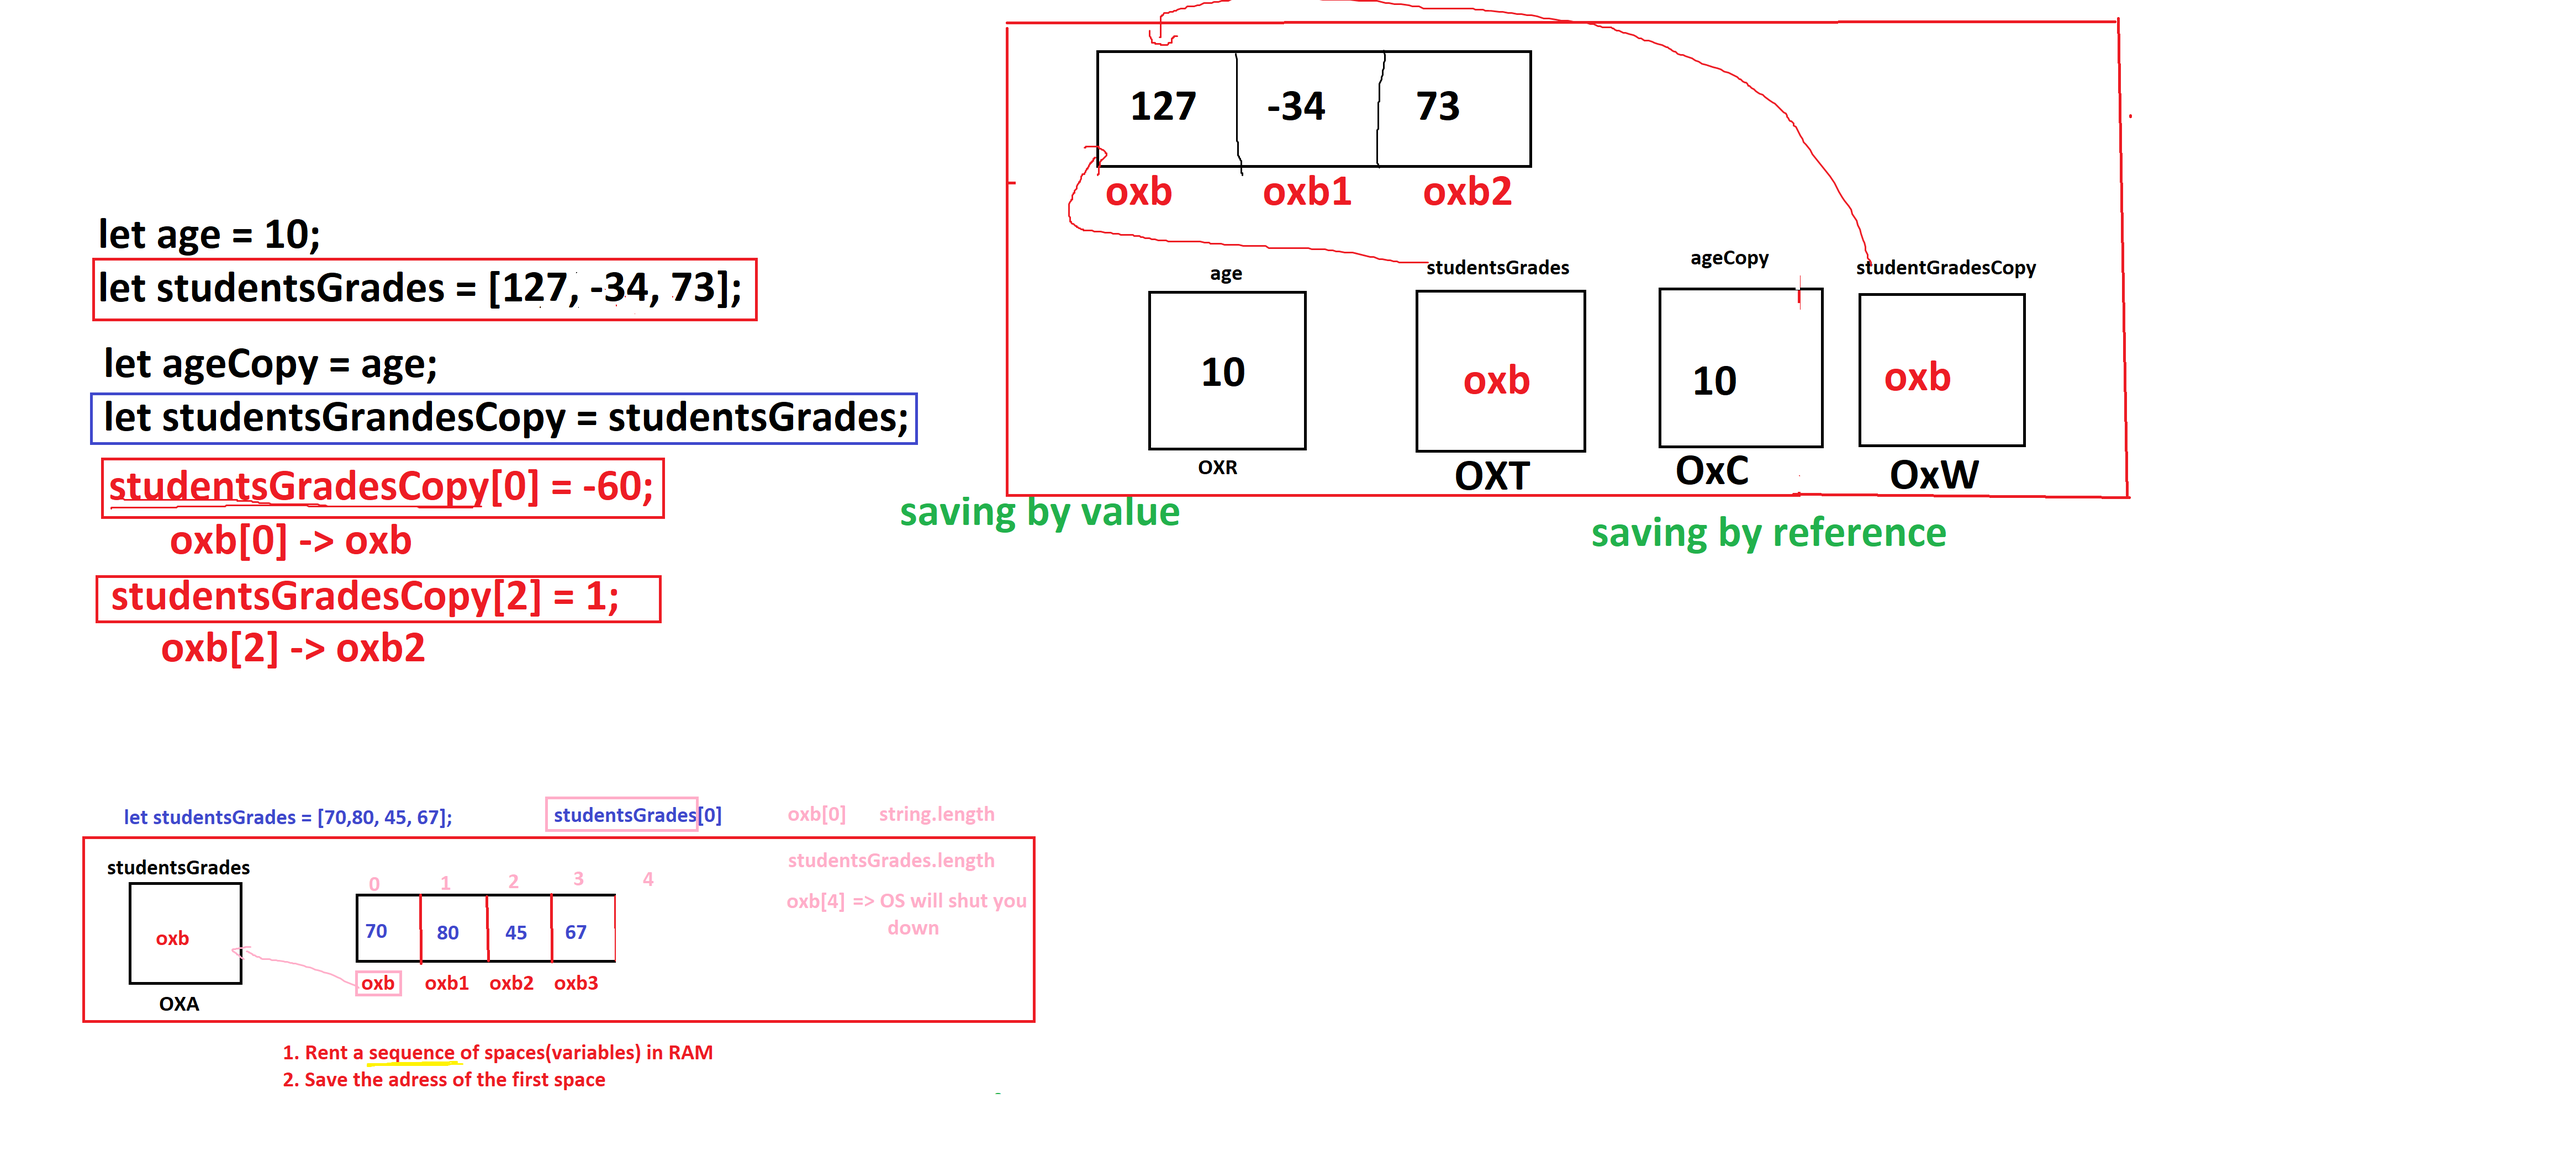
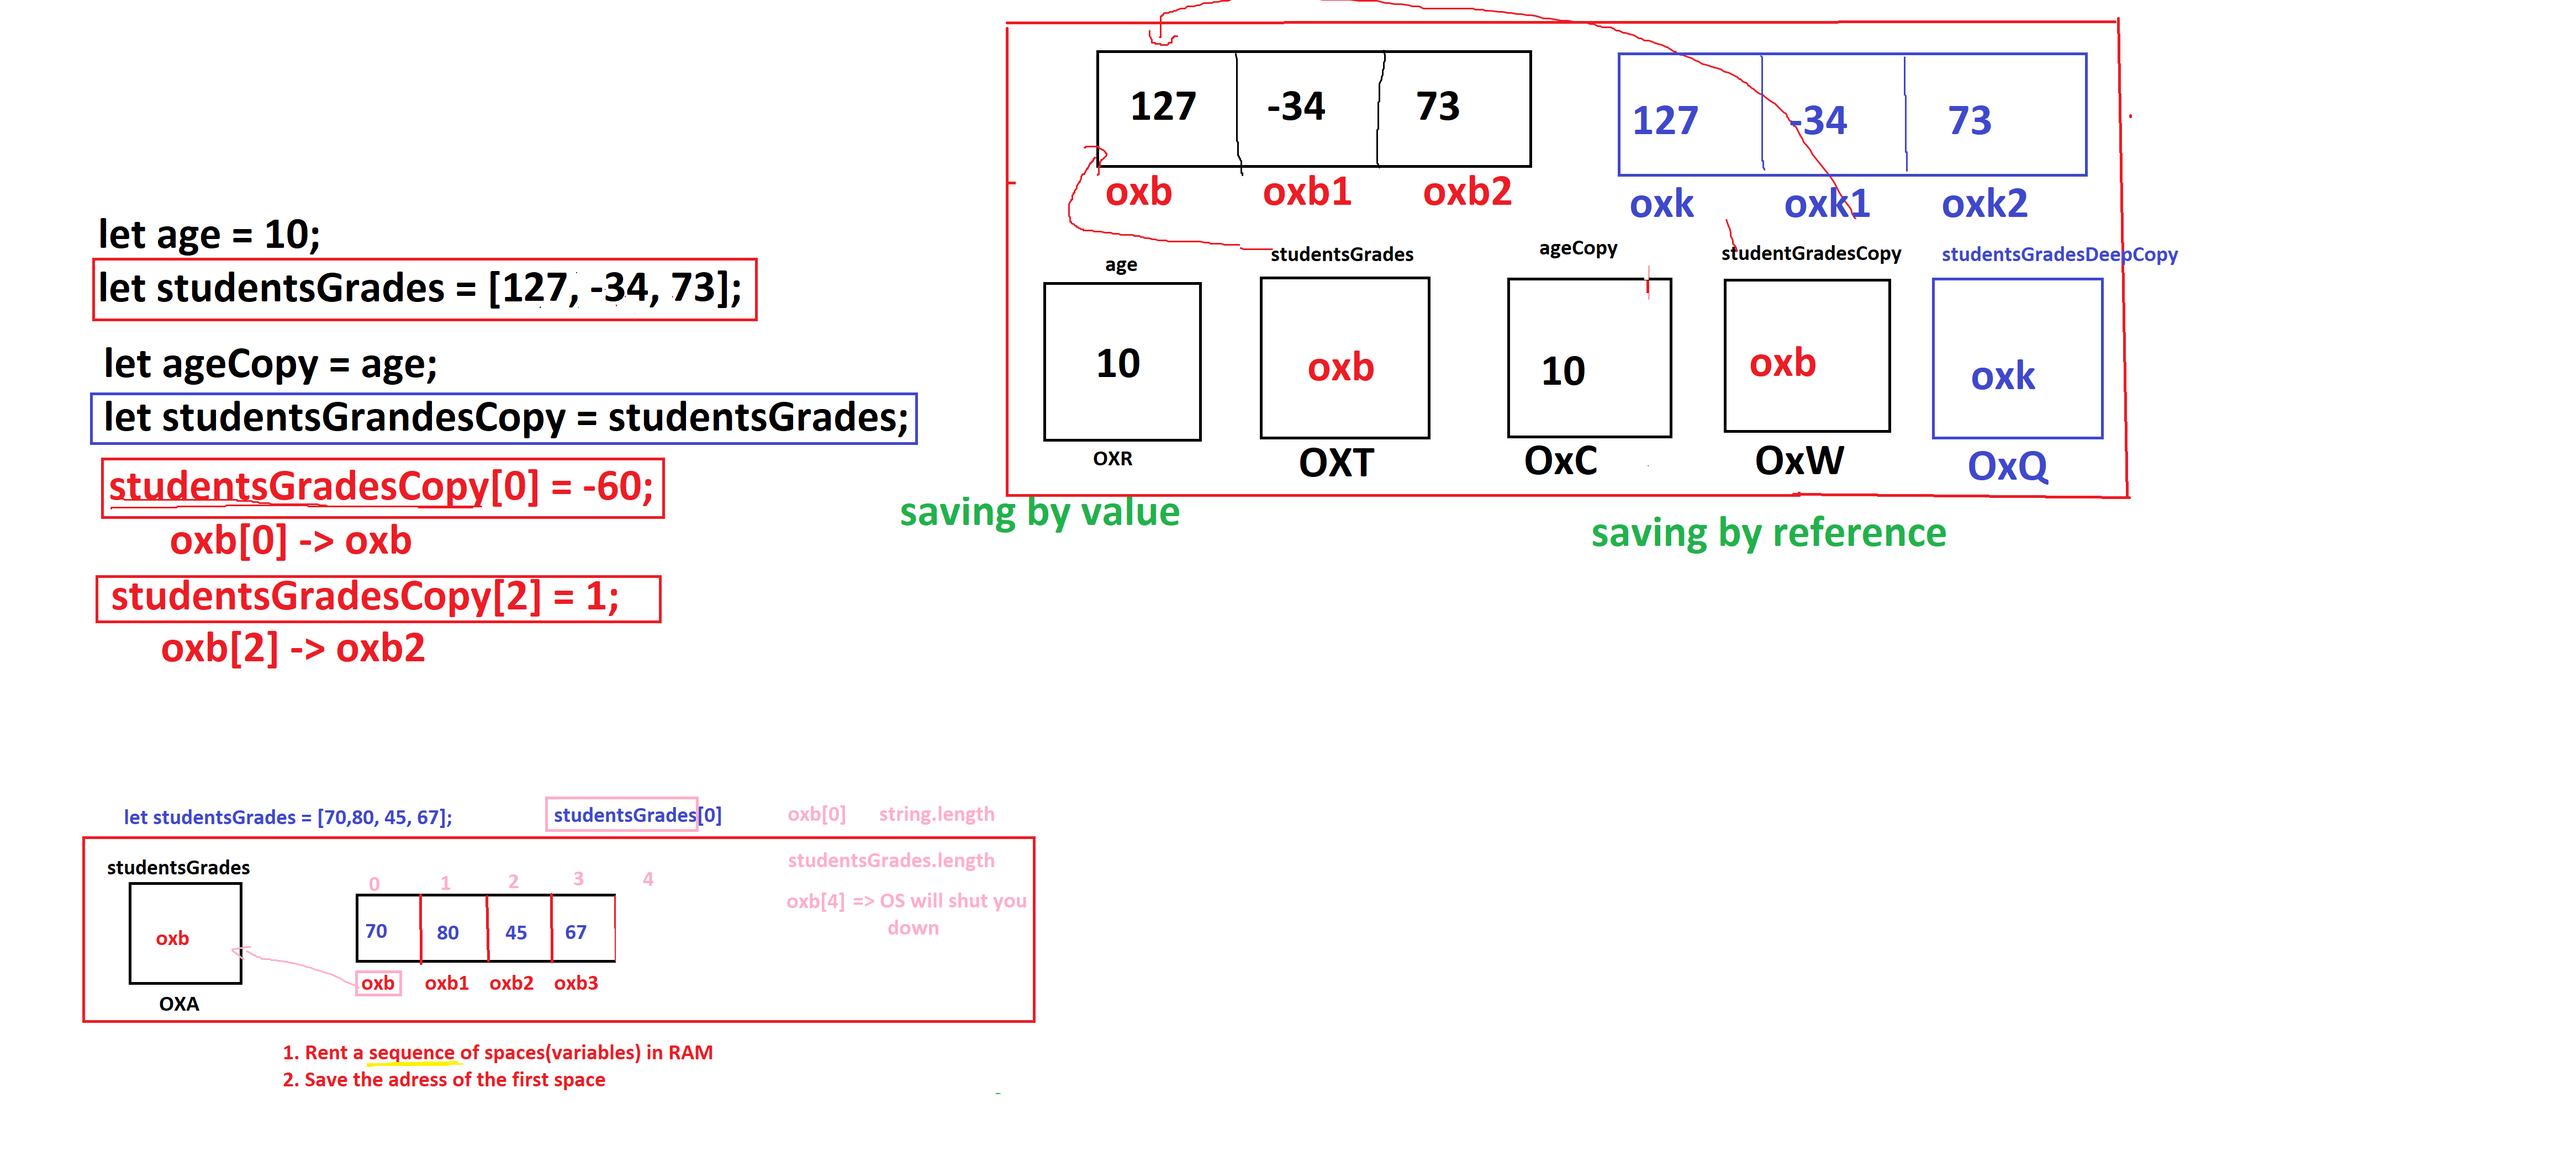
Session 7

diff --git a/JavaScript/Session 7/exercises.js b/JavaScript/Session 7/exercises.js
@@ -1,0 +1,101 @@
+// 2. Make a function that accept an array and returns the min and max
+//Input     take as args an array
+//Cal       Compare all the numbers to find the min one
+//              1. supose that the first element is the min one and the max one
+//              2. go through each element and compare it to the min
+//              3. if the number is lower than the min => change min
+//              4. if the number is higher than the max => change max
+//Output    return the min
+
+// function minAndMax(array) {
+//   //OxB[0]
+//   let min = array[0];
+//   let max = array[0];
+//   for (let index = 1; index < array.length; index++) {
+//     const element = array[index];
+//     if (element < min) {
+//       min = element;
+//     }
+//     if (element > max) {
+//       max = element;
+//     }
+//   }
+//   let result = [min, max];
+//   //result = [];
+//   //result.push(min);
+//   //result.push(max);
+//   return result;
+// }
+
+// console.log(minAndMax([1, 5, -10, 999, 10, 1000, -65]));
+
+// 3. Make a function that accept an array and returns true if the number are in ASC order
+
+//Input         take an array as arg
+//Cal           supose that the array is sorted
+//              go through each element of the array and check
+//                  check if its right neighbor is greater than it
+//                  if the right neighbor is lower isSorted is false
+//Output        return isSorted
+
+// function isSortedASC(array) {
+//   let isSorted = true; //supose that the array is sorted
+//   for (let index = 0; index < array.length - 1; index++) {
+//     let currentElement = array[index];
+//     let nextElement = array[index + 1];
+//     if (currentElement > nextElement) {
+//       //the order is broken
+//       isSorted = false;
+//       break;
+//     }
+//   }
+//   return isSorted;
+// }
+
+// console.log(isSortedASC([1, 2, 4, -1, 10, 100]));
+
+// 4. Make a function that accept an array and returns true if all the elements are of same type
+//Input         take an array as arg
+//Cal           supose that the array is of same type
+//              go through each element of the array and check
+//                  check if its right neighbor is of same type
+//                  if the right neighbor is of diffrent type isOfSameType turns false
+//Output        return isOfSameType
+
+// function isOfSameType(array) {
+//   let isOfSameType = true; //supose that the array is sorted
+//   for (let index = 0; index < array.length - 1; index++) {
+//     let currentElement = array[index];
+//     let nextElement = array[index + 1];
+//     if (typeof currentElement != typeof nextElement) {
+//       //the order is broken
+//       isOfSameType = false;
+//       break;
+//     }
+//   }
+//   return isOfSameType;
+// }
+// console.log(isOfSameType([1, 2, 4, true, 10, 100]));
+
+// 5. Write a function that takes an array of strings as an argument and returns
+//                 a new array of all the unique strings.
+//Input         take an array as arg
+//Cal           decalre a result array to return more than one value
+//              copy every element of the original array to the result array
+//                  before copying it check if the element is present in the result array
+//                  copy only if the element is not present at the result array
+//
+//
+//Output        return the result array
+
+// function getUniqueElements(array) {
+//   let result = [];
+//   for (let index = 0; index < array.length; index++) {
+//     const element = array[index];
+//     if (result.indexOf(element) == -1) {
+//       result.push(element);
+//     }
+//   }
+//   return result;
+// }
+// console.log(getUniqueElements([1, 2, 2, true, 10, true, 100, -87]));

diff --git a/JavaScript/Session 7/script.js b/JavaScript/Session 7/script.js
@@ -1,0 +1,70 @@
+let array = [1, 2, 45, -11, -1, 50, -456, 78];
+let studentNames = ["Anna", "Muhsin", "Ron", "Klement"];
+
+// let compareTwoElements = function compareTwoElements(element1, element2) {
+//   if (element1 < element2) {
+//     return 1;
+//   }
+//   if (element1 > element2) {
+//     return -1;
+//   }
+//   return 0;
+// };
+
+// array.sort(compareTwoElements); //sort is destructive -> it will change the original array
+// studentNames.sort(compareTwoElements);
+// console.log(array); //[-1,1,2,11,45,...]
+// console.log(studentNames);
+
+// let conditionOfFiltering = (element) => {
+//   if (element > 0) {
+//     return true;
+//   }
+//   return false;
+// };
+
+// let filteredArray = array.filter(conditionOfFiltering); //filter is not destructive -> it will not change the original array
+
+// console.log(filteredArray);
+
+// let printDouble = (element) => {
+//   element = element * 2;
+//   console.log(element);
+// };
+// array.forEach(print); //forEach is not destructive -> it will not change the original array
+// console.log(array);
+
+// let doubleTheValues = (element) => {
+//   return element * 2;
+// };
+// let doubleArray = array.map(doubleTheValues); //map is not destructive -> it will not change the original array
+// console.log(array);
+// console.log(doubleArray);
+
+// let add = (element1, element2) => {
+//   return element1 + element2;
+// };
+// let sum = studentNames.reduce(add);
+// console.log(studentNames);
+// console.log(sum);
+
+// Salaries [1000, 200, 500, 6700, 8900, 9000]
+//         Tax all the worker having the a salary over 5000$ by 20% and find the sum of the taxes
+
+// let salaries = [1000, 200, 500, 6700, 8900, 9000];
+
+// let isSalaryOver5000 = (salary) => {
+//   if (salary > 5000) {
+//     return true;
+//   }
+//   return false;
+// };
+
+// let getTaxValue = (salary) => {
+//   return salary * 0.2;
+// };
+
+// //We can chain the methods becase the pervious method returns an array
+// salaries.filter(isSalaryOver5000).map(getTaxValue).reduce(add);
+
+// console.log(salaries.filter(isSalaryOver5000).map(getTaxValue).reduce(add));

diff --git a/JavaScript/Session 6/script.js b/JavaScript/Session 6/script.js
@@ -32,22 +32,22 @@
 
 //Saving by Value VS Saving by Reference
 
-let age = 10;
-let ageCopy = age;
+// let age = 10;
+// let ageCopy = age;
 
-let studentsGrades = [10, 50, 60, 64, 93];
-let studentsGradesCopy = studentsGrades; //shallow copy
-let studentsGradesDeepCopy = studentsGrades.slice(0, studentsGrades.length); //deep copy
+// let studentsGrades = [10, 50, 60, 64, 93];
+// let studentsGradesCopy = studentsGrades; //shallow copy
+// let studentsGradesDeepCopy = studentsGrades.slice(0, studentsGrades.length); //deep copy
 
-console.log("Before");
-console.log(studentsGrades);
-console.log(studentsGradesDeepCopy);
+// console.log("Before");
+// console.log(studentsGrades);
+// console.log(studentsGradesDeepCopy);
 
-studentsGradesDeepCopy[2] = -999;
+// studentsGradesDeepCopy[2] = -999;
 
-console.log("After");
-console.log(studentsGrades);
-console.log(studentsGradesDeepCopy);
+// console.log("After");
+// console.log(studentsGrades);
+// console.log(studentsGradesDeepCopy);
 
 // console.log("Before Changing: ");
 // console.log("Original: " + studentsGrades.toString());
@@ -64,6 +64,9 @@ console.log(studentsGradesDeepCopy);
 // console.log("Original: " + age);
 // console.log("Shallow Copy: " + ageCopy);
 
+let age = 10;
+let studentsGrades = [10, 50, 60, 64, 93];
+
 function changeAge(age) {
   age = 58;
   return age;
@@ -74,13 +77,13 @@ function deleteMiddleElement(array) {
   array.splice(middleIndex, 1);
 }
 
-// console.log("Before");
-// console.log(studentsGrades.toString());
-// console.log(age);
+console.log("Before");
+console.log(studentsGrades.toString());
+console.log(age);
 
-// deleteMiddleElement(studentsGrades);
-// age = changeAge(age);
+deleteMiddleElement(studentsGrades);
+changeAge(age);
 
-// console.log("After");
-// console.log(studentsGrades.toString());
-// console.log(age);
+console.log("After");
+console.log(studentsGrades.toString());
+console.log(age);

diff --git a/JavaScript/Session 7/script2.js b/JavaScript/Session 7/script2.js
@@ -1,0 +1,27 @@
+//object litterals
+// let ron = {
+//   name: "Ron",
+//   phone: 12345678,
+//   isActive: true,
+//   grades: [50, 60, 98],
+//   address: {
+//     street: "5th avenu",
+//     city: "NY",
+//   },
+// };
+
+// let muhsin = {
+//   name: "Muhsin",
+//   phone: 1211345678,
+//   isActive: true,
+//   grades: [50, 60, 98],
+//   address: {
+//     street: "6th avenu",
+//     city: "NY",
+//   },
+// };
+
+// console.log(ron.isActive);
+// console.log(muhsin["isActive"]);
+// console.log(muhsin.address.street);
+console.log(document);

diff --git a/JavaScript/Session 7/index.html b/JavaScript/Session 7/index.html
@@ -1,0 +1,14 @@
+<!DOCTYPE html>
+<html lang="en">
+  <head>
+    <meta charset="UTF-8" />
+    <meta http-equiv="X-UA-Compatible" content="IE=edge" />
+    <meta name="viewport" content="width=device-width, initial-scale=1.0" />
+    <title>Session 7 | JS</title>
+  </head>
+  <body>
+    <script src="script.js"></script>
+    <script src="script2.js"></script>
+    <!-- <script src="exercises.js"></script> -->
+  </body>
+</html>
